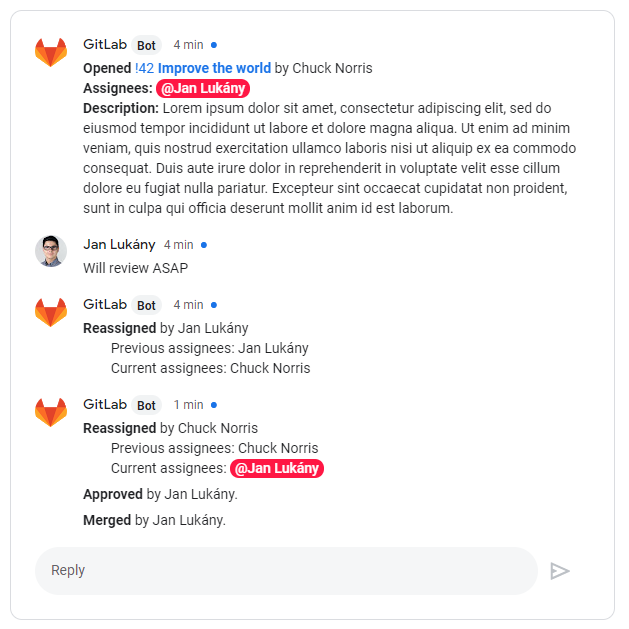
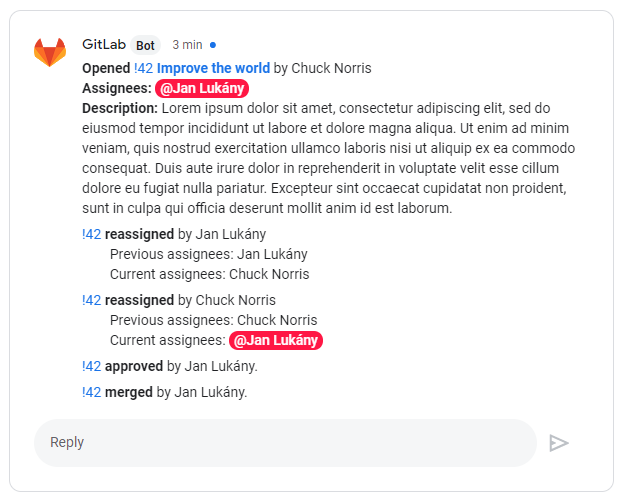
Add link to all actions

diff --git a/ggci/gitlab.py b/ggci/gitlab.py
@@ -94,6 +94,10 @@ class MergeRequestEvent:
     def long_link(self) -> str:
         return f'<{self.url}|!{self.mr_iid} *{self.title}*>'
 
+    @property
+    def short_link(self) -> str:
+        return f'<{self.url}|!{self.mr_iid}>'
+
     def create_message(self) -> Message:
 
         if self.action == Action.OPEN:
@@ -106,9 +110,9 @@ class MergeRequestEvent:
                 )
             )
         elif self.action == Action.APPROVED:
-            text = f'*Approved* by {self.event_author}.'
+            text = f'{self.short_link} *approved* by {self.event_author}.'
         elif self.action == Action.MERGE:
-            text = f'*Merged* by {self.event_author}.'
+            text = f'{self.short_link} *merged* by {self.event_author}.'
         elif self.action == Action.UPDATE:
             assert isinstance(self.assignees_change, AssigneesChange)
             previous = format_users(users=self.assignees_change.previous)
@@ -117,7 +121,7 @@ class MergeRequestEvent:
             )
             text = '\n'.join(
                 (
-                    f'*Reassigned* by {self.event_author}',
+                    f'{self.short_link} *reassigned* by {self.event_author}',
                     f'\tPrevious assignees: {previous}',
                     f'\tCurrent assignees: {current}',
                 )

diff --git a/tests/test_gitlab.py b/tests/test_gitlab.py
@@ -21,7 +21,9 @@ def test_update(payload_mr_update: MergeRequestEvent, monkeypatch):
     monkeypatch.setattr(commons, '_get_google_chat_id', user_mappings.get)
     message = mr_event.create_message()
 
-    assert '*Reassigned*' in message.text
+    assert (
+        '<https://www.gitlab.com/lukany/ggci|!42> *reassigned*' in message.text
+    )
     assert 'by Chuck Norris' in message.text
     assert '\tPrevious assignees: Alice, Bob' in message.text
     assert '\tCurrent assignees: Carl, <users/1004>' in message.text
@@ -30,10 +32,15 @@ def test_update(payload_mr_update: MergeRequestEvent, monkeypatch):
 def test_approved(payload_mr_approved: MergeRequestEvent):
     mr_event = MergeRequestEvent.from_dict(payload_mr_approved)
     message = mr_event.create_message()
-    assert message.text == '*Approved* by Chuck Norris.'
+    assert message.text == (
+        '<https://www.gitlab.com/lukany/ggci|!42> *approved* by Chuck Norris.'
+    )
 
 
 def test_merge(payload_mr_merge: MergeRequestEvent):
     mr_event = MergeRequestEvent.from_dict(payload_mr_merge)
     message = mr_event.create_message()
-    assert message.text == '*Merged* by Chuck Norris.'
+    assert (
+        message.text
+        == '<https://www.gitlab.com/lukany/ggci|!42> *merged* by Chuck Norris.'
+    )

diff --git a/README.md b/README.md
@@ -45,7 +45,7 @@ Supported actions:
 
 - *open*: includes link with title, event author, mentions of assignees
   and description
-- *approved*: includes event author
-- *update of assigness*: includes event author, list of previous assigness
-  and mentions of current assignees
-- *merged*: includes action author
+- *approved*: includes link and event author
+- *update of assigness*: includes link, event author, list of previous
+  assigness and mentions of current assignees
+- *merged*: includes link and action author
